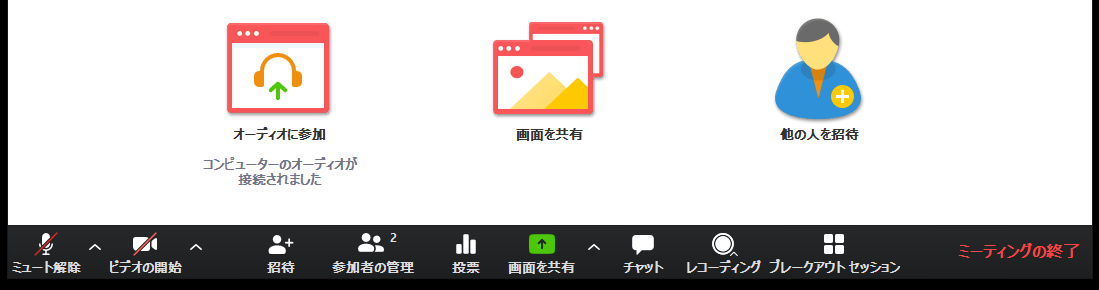
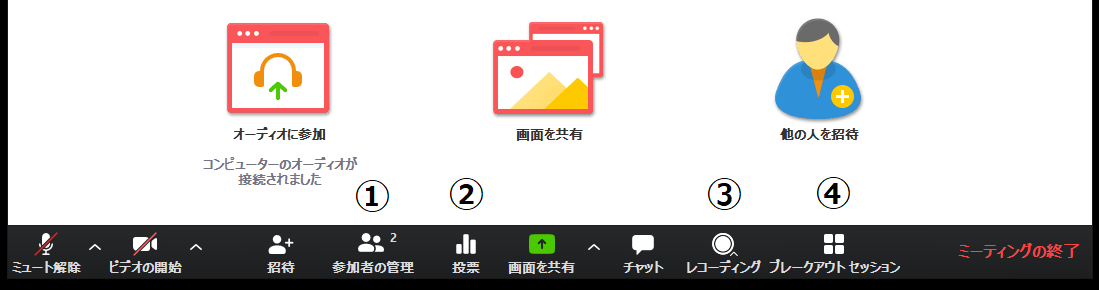
zoom how to use host

diff --git a/zoom/how_to_use_host.md b/zoom/how_to_use_host.md
@@ -13,7 +13,7 @@ title: Zoom の使い方（開催者用）
   
 1. Zoom アカウントの<a href="https://zoom.us/profile/setting" target="_blank">設定ページ</a>（個人の「設定」→「ミーティング」）へ行きます．
   * 取得したアカウントでログインしてください  
-  ![](img/zoom_host_setting_1.png)  
+  ![](img/zoom_host_setting.png)  
   
 1. 必要な設定を ON にします．おすすめの設定は以下のとおりです．
   * （必要に応じて ON）**認証されているユーザーしかミーティングに参加できません**: これを ON にして「大学アカウントでサインイン」を選択すると，ECCS クラウドメール（xxxx@g.ecc.u-tokyo.ac.jp）のアカウントでサインインしている人のみ入室できるように制限ができます
@@ -24,24 +24,55 @@ title: Zoom の使い方（開催者用）
 
 
 ## 参加者の管理
-
-  ![](img/zoom_main_host_numbering.png)  
-開催者特有のメニューについてそれぞれ簡単に説明します（バージョンによってはメニュー項目の一部がない場合もあります．また，上記のように別途設定が必要な項目もあります）．  
+  
+開催者特有のメニューについてそれぞれ簡単に説明します（バージョンによってはメニュー項目の一部がない場合もあります．また，上記のように別途設定が必要な項目もあります）．    
+  ![](img/zoom_host_main_menu.png)  
+  
   1. **参加者の管理** : ある参加者をミュートにしたり，全員ミュートにしたり，参加者に自分でミュート解除できないようにしたり，それ以上参加者が増えないようにミーティングをロックしたりできます．
   1. **投票（設定必要）** : 参加者に対して投票を促すことができます．質問自体は Web ブラウザで作成する必要があり，「編集」や初めて質問を作る場合は「質問の追加」を押すことで，質問を作成することができるようになります．
   1. **レコーディング** : ミーティングの様子をレコーディングできます．
   1. **ブレイクアウト（設定必要）** : 参加者をサブグループに分けることができます．人数を決めて自動で割り当てることもできますし，手動で割り当てることもできます．
   
   
-  
 以下，主に利用するメニュー項目について，追加で詳細を説明します．
-
-## 参加者の管理
   
-  TODO 動画
+  
+## 参加者の管理
+「参加者の管理」を押すと，現在の参加者一覧と下にメニューが出てきます．  
+以下，各メニューの説明をします．  
+
+
+* 参加者一覧
+  ![](img/zoom_host_main_member1.png)  
+
+  * 参加者にマウスカーソルを合わせると，「ミュート解除（もしくはミュート）」と「詳細」のメニューが出てきます（その参加者が手を挙げていたら，「手を降ろす」も出てきます）．  
+    * **ミュート解除（もしくはミュート）**: これを押すことでその参加者を「ミュート解除（もしくはミュート）」できるようになります．
+	  * ミュート解除は強制的にはできない場合があります．具体的には，参加者が自主的にミュートしている場合，その参加者の承認がなければ解除されません．
+	  * ミュートは強制的にできます．
+	* **詳細**: クリックすると下のメニューが出てきます
+	  * **チャット**: 個別のテキストチャットができるようになります．
+	  * **ビデオの開始を依頼**: その参加者のビデオを ON にする依頼をします（その参加者が許可しない限り ON にはなりません）．  
+	  * **ホストにする**: その参加者を開催者（ホスト）にします．そうすると開催者ではなくなり，普通の参加者になるため，開催者特有のメニューは消えます．他の人に開催者役をわたしたい時に使います．
+	  * **名前の変更**: その参加者の名前を修正します（これは許可なしに修正できます）．
+	  * **削除**: その参加者を退室させます．一度退室させるとその会議室にその参加者は再度入室できなくなります．
+  
+  
+* 下のメニュー
+  ![](img/zoom_host_main_member2.png)  
+  
+  * **すべてミュート**: 参加者全員を強制的にミュートにできます．開催者のみ説明をしたいときなどに利用します．
+  * **すべてミュート解除**: 参加者全員を強制的ではないですがミュート解除できます（参加者が自主的にミュートしていた場合は，その参加者の承認がなければ解除されません）．
+  * **詳細**: クリックすると下のメニューが出てきます
+    * **開始時にミュート**: ON にしていると参加者が入室時にミュートになります．
+	* **参加者に自分のミュート解除を許可します**: メニュー名の通りです．参加者数が多い場合は OFF  を推奨します．
+	  * 間違えてミュートを外して環境音をいれてしまう人が出て，説明などを妨害してしまうときがあるため．
+	* **参加者が自分の名前を変更するのを許可する**: 名前に意味を持たせていて，変更してほしくないときは OFF にします．
+	* **入退出チャイムの再生: ON にすると参加者が入退出をした時にチャイムが再生されます．
+	* **ミーティングをロックする**: ON にした場合，新たな参加者が参加できなくなります．参加者が揃ってこれ以上人を入れたくない時に ON にします． 
+	
   
 ## 投票
-  
+  投票のやり方
   TODO 動画
   
 ## レコーディング

diff --git a/zoom/how_to_use.md b/zoom/how_to_use.md
@@ -15,10 +15,10 @@ Zoom の画面にマウスカーソルを合わせると下にメニューが出
   1. **招待** : メールなどを使って招待を送れます．開催者および参加者は基本的に会議室の URL を知っているため，それを共有すれば招待できることから，このボタンはそこまで使いません．
   1. **画面を共有** : 自身のデバイスの画面を共有できます．
   1. **反応** : 「拍手」や「賛成」の意思を表明できます．
-  1. **詳細** : 画面に入りきれなかったメニューがここに入ります（画面の横幅が十分大きい場合は全てのメニューが画面内に表示されて「詳細」が表示されないことがあります．
-    * 参加者 : 参加者一覧を表示します．
-	* チャット : テキストチャットを行います．
-	* このコンピューターにレコーディング : ホストが許可をしている場合レコーディングができます．このボタンは開催関係者以外は利用しないことが多いです．
+  1. **詳細** : 画面に入りきれなかったメニューがここに入ります（画面の横幅が十分大きい場合は全てのメニューが画面内に表示されて「詳細」が表示されないことがあります．  
+    * 参加者 : 参加者一覧を表示します．  
+	* チャット : テキストチャットを行います．  
+	* このコンピューターにレコーディング : ホストが許可をしている場合レコーディングができます．このボタンは開催関係者以外は利用しないことが多いです．  
   1. **ミーティングを退出** : ミーティングを退出します．押した後確認画面が出るため，ボタンを押したらいきなり退出するわけではありません．
   
   
